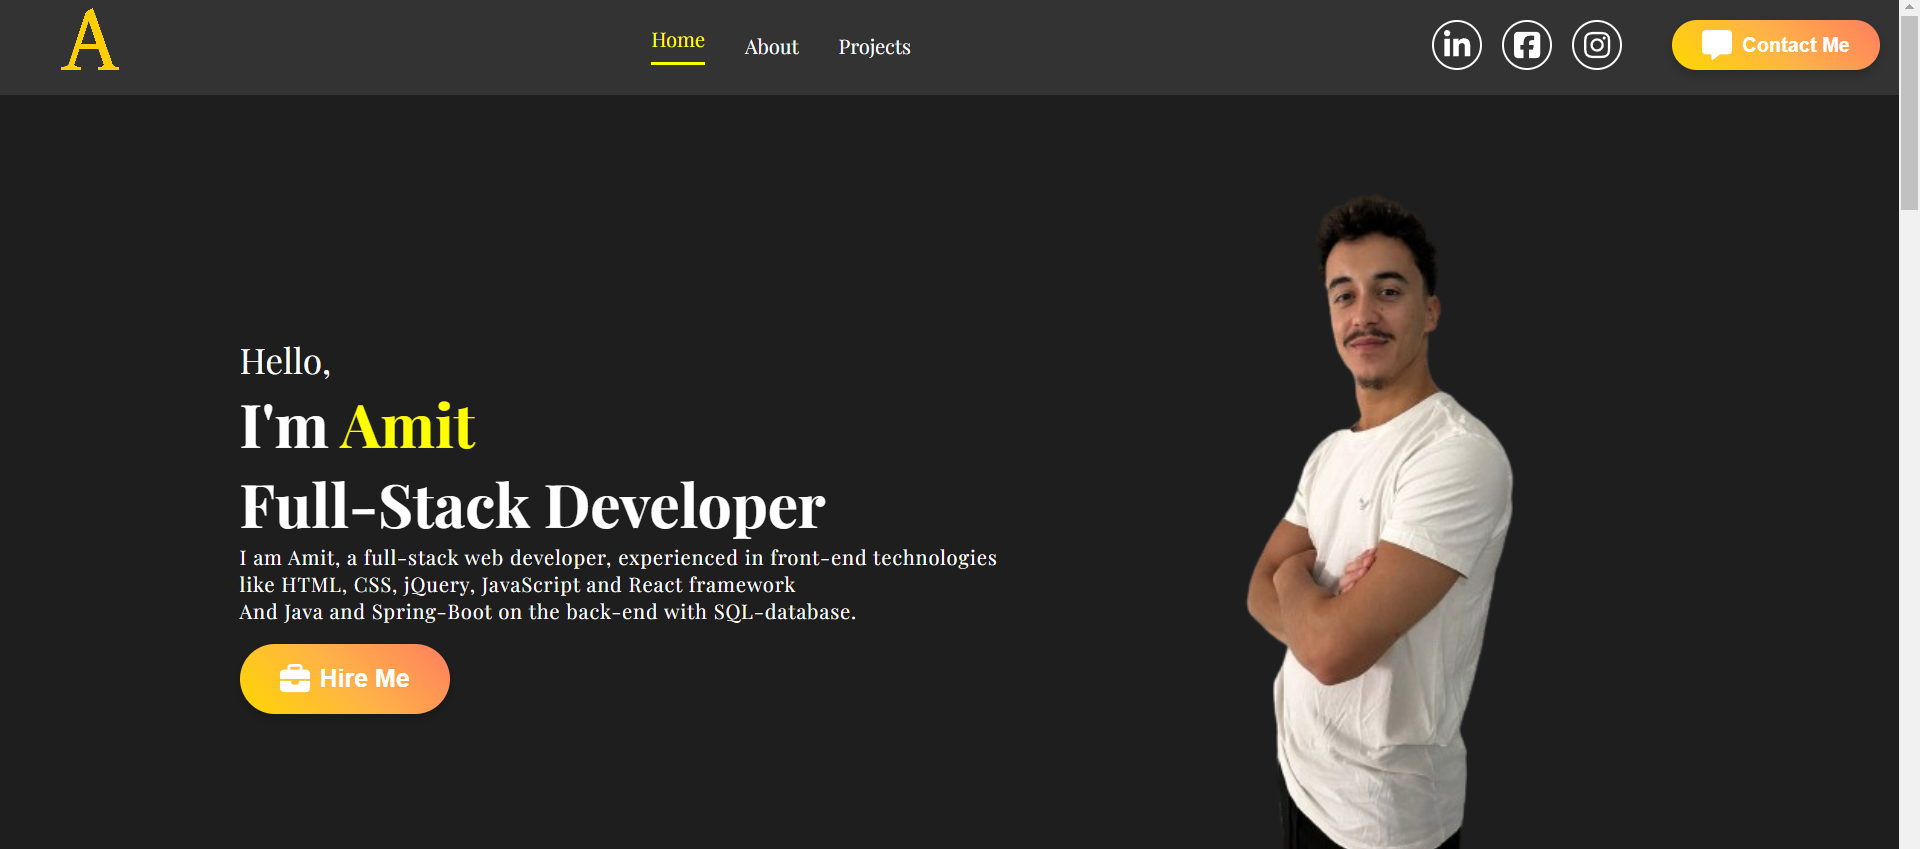
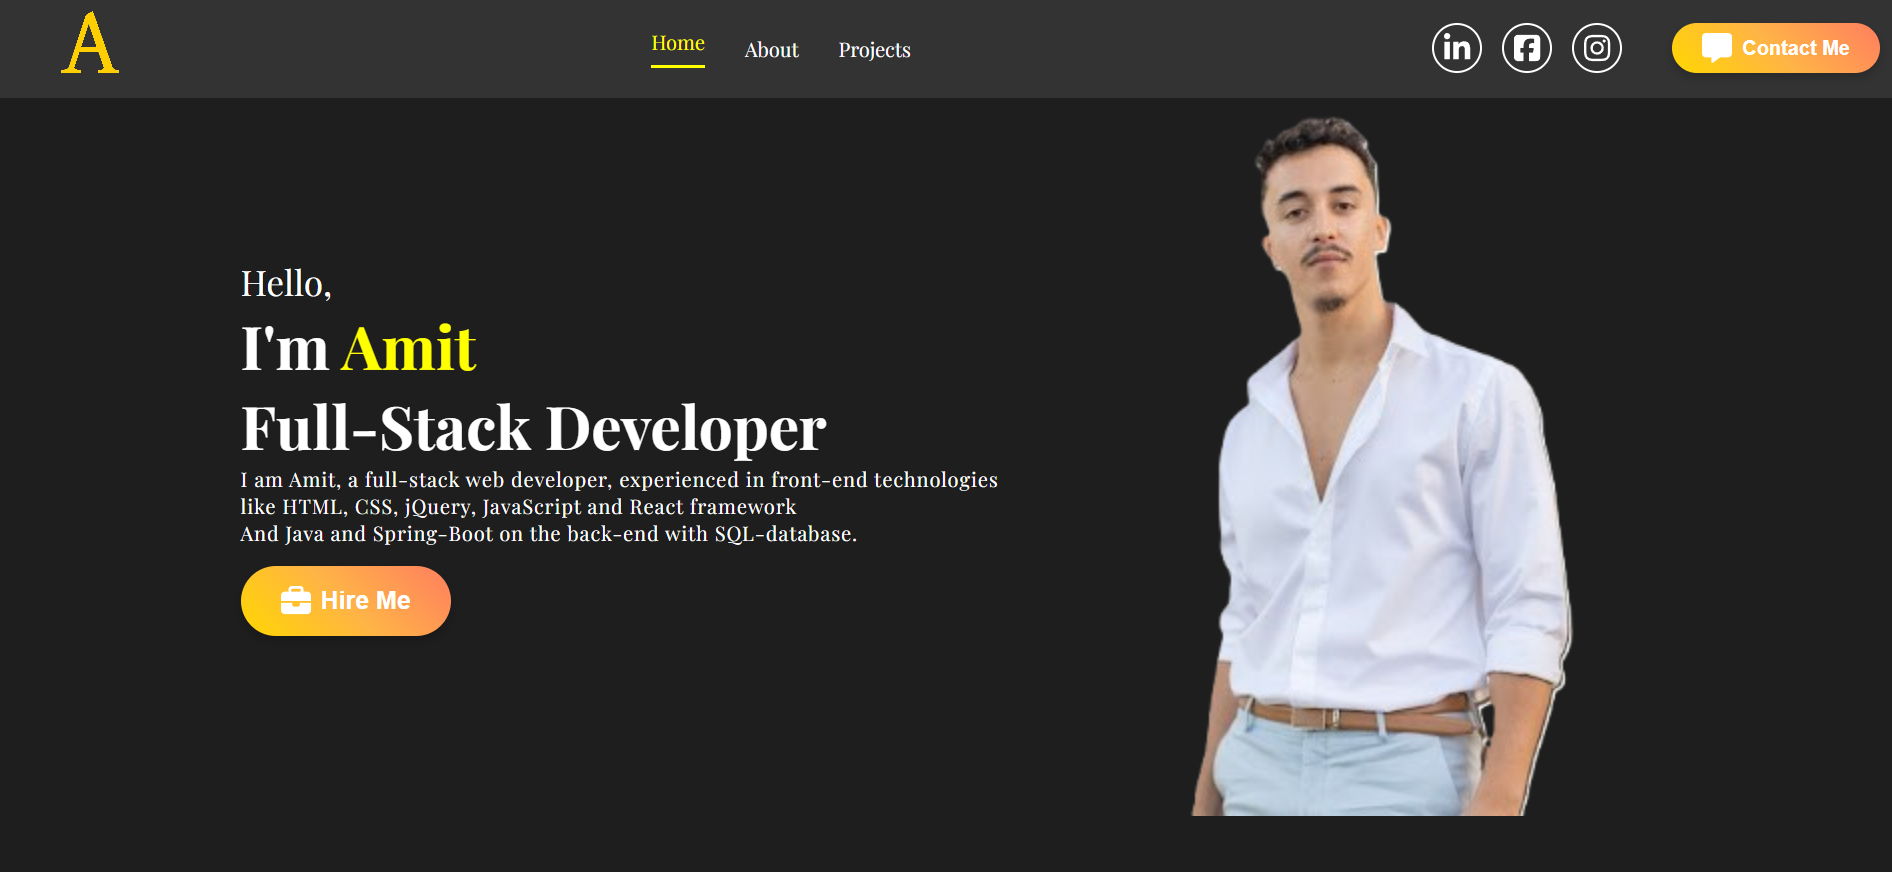
"updated"

diff --git a/src/components/Skills/Skills.jsx b/src/components/Skills/Skills.jsx
@@ -5,38 +5,45 @@ import website from '../../assets/website.jpeg';
 import problems from '../../assets/problems.png';
 import teamwork from '../../assets/teamwork.webp';
 
-const Skills = () =>{
-    return(
+const Skills = () => {
+    return (
         <section id="skills">
             <span className="skillsTitle">My Skills</span>
-            <span className="skillsDesc">I am a skilled and passionate full stack developer with experience in creating end to end websites. I have a strong understangind in HTML, CSS, Java Script, jQuery and React framework in frontend and Java, Spring Boot and SQL in backend.</span>
+            <span className="skillsDesc">
+                I am a passionate Full-Stack Developer with a deep technical background in building scalable, 
+                high-performance applications. My expertise spans across frontend modern frameworks, 
+                backend system architecture, and efficient infrastructure management.
+            </span>
             <div className="skillsBars">
                 <div className="skillsBar">
                     <img src={website} alt="frontend" className="skillsBarImg" />
                     <div className="skillsBarText">
-                        <h2>Front-end Developer</h2>
-                        <p>I have high level of skills in HTML, CSS, jQuery, Java Script and React framework.</p>
+                        <h2>Front-end Development</h2>
+                        <p>High-level expertise in HTML, CSS, JavaScript, and React, creating responsive and dynamic user interfaces.</p>
                     </div>
                 </div>
+                
                 <div className="skillsBar">
-                    <img src={problems} alt="problem solving" className="skillsBarImg" />
-                    <div className="skillsBarText">
-                        <h2>Problems solvin</h2>
-                        <p>Advenced problem solving skills in minimum time.</p>
-                    </div>
-                </div>
-                 <div className="skillsBar">
                     <img src={java} alt="backend" className="skillsBarImg" />
                     <div className="skillsBarText">
-                        <h2>Back-end Developer</h2>
-                        <p>I have high level of skills in Java, Spring Boot and SQL-MySql</p>
+                        <h2>Back-end & Systems</h2>
+                        <p>Proficient in Java, Spring Boot, Python, and C++. Experienced in Multithreading, Communication Models, and robust system logic.</p>
                     </div>
                 </div>
+
                 <div className="skillsBar">
-                    <img src={teamwork} alt="teamwork" className="skillsBarImg" />
+                    <img src={problems} alt="data and infrastructure" className="skillsBarImg" />
                     <div className="skillsBarText">
-                        <h2>Collaboration & Teamwork</h2>
-                        <p>Teamwork player with excellent interpersonal skills</p>
+                        <h2>Data & Infrastructure</h2>
+                        <p>Expertise in SQL (MySQL & pgAdmin), database management, and streamlining development environments with Docker.</p>
+                    </div>
+                </div>
+
+                <div className="skillsBar">
+                    <img src={teamwork} alt="soft skills" className="skillsBarImg" />
+                    <div className="skillsBarText">
+                        <h2>Problem Solving & Teamwork</h2>
+                        <p>Advanced analytical skills with a focus on efficient solutions. A collaborative team player with strong communication skills.</p>
                     </div>
                 </div>
             </div>

diff --git a/src/components/Contact/Contact.jsx b/src/components/Contact/Contact.jsx
@@ -1,40 +1,60 @@
-import React, {useRef} from "react";
+import React, { useRef } from "react";
 import './Contact.css';
 import emailjs from '@emailjs/browser';
+import Swal from 'sweetalert2'; 
 
-
-const Contact = () =>{
+const Contact = () => {
     const form = useRef();
+
     const sendEmail = (e) => {
         e.preventDefault();
-    
-        emailjs
-          .sendForm('service_pjgk3n3', 'template_77s6bw5', form.current, {
-            publicKey: 'w3OtjNlx0B_8PdHZZ',
-          })
-          .then(
-            () => {
-              console.log('SUCCESS!');
-              e.target.reset();
-              alert('Email sent!');
-            },
-            (error) => {
-              console.log('FAILED...', error.text);
-            },
-          );
-      };
 
-    return(
+        emailjs
+            .sendForm('service_pjgk3n3', 'template_77s6bw5', form.current, {
+                publicKey: 'glx5GXG-GM7hQYY0_',   
+            })
+            .then(
+                () => {
+                    console.log('SUCCESS!');
+                    e.target.reset();
+                    
+                  
+                    Swal.fire({
+                        title: 'Success!',
+                        text: 'Your message has been sent successfully.',
+                        icon: 'success',
+                        confirmButtonColor: '#FFD700', 
+                        background: '#1a1a1a', 
+                        color: '#fff'
+                    });
+                },
+                (error) => {
+                    console.log('FAILED...', error.text);
+                    
+                    
+                    Swal.fire({
+                        title: 'Error!',
+                        text: 'Something went wrong. Please try again later.',
+                        icon: 'error',
+                        confirmButtonColor: '#FF7E5F',
+                        background: '#1a1a1a',
+                        color: '#fff'
+                    });
+                }
+            );
+    };
+
+    return (
         <section id="contactPage">
             <h1 className="contactTitle">Get In Touch</h1>
             <form ref={form} className="contactForm" onSubmit={sendEmail}>
-                <input type="text" className="name" placeholder="Your Name" name="your_name" />
-                <input type="email" className="email" placeholder="Your Email" name="your_email" />
-                <textarea className="msg" name="message" rows="5" placeholder="Message"></textarea>
+                <input type="text" className="name" placeholder="Your Name" name="your_name" required />
+                <input type="email" className="email" placeholder="Your Email" name="your_email" required />
+                <textarea className="msg" name="message" rows="5" placeholder="Message" required></textarea>
                 <button type="submit" value="send" className="submitBtn">Submit</button>
             </form>
         </section>
     );
 }
 
-export default Contact
+export default Contact;

diff --git a/src/components/Intro/Intro.jsx b/src/components/Intro/Intro.jsx
@@ -1,6 +1,6 @@
 import React from "react";
 import './Intro.css';
-import amit from '../../assets/Amit.png';
+import amit from '../../assets/amit.png';
 import { Link } from 'react-scroll';
 import { FontAwesomeIcon } from '@fortawesome/react-fontawesome';
 import { faBriefcase } from '@fortawesome/free-solid-svg-icons';
@@ -10,13 +10,26 @@ const Intro = () => {
         <section id="intro">
             <div className="introContent">
                 <span className="hello">Hello,</span>
-                <span className="introText">I'm <span className="introName">Amit</span><br />Full-Stack Developer</span>
+                <span className="introText">
+                    I'm <span className="introName">Amit</span><br />
+                    Full-Stack Developer & Software Engineering Student
+                </span>
                 <div className="introP">
-                <p className="introPara">I am Amit, a full-stack web developer, experienced in front-end technologies</p>
-                <p className="introPara"> like HTML, CSS, jQuery, JavaScript and React framework</p>
-                <p className="introPara"> And Java and Spring-Boot on the back-end with SQL-database.</p>
+                    <p className="introPara">
+                        I specialize in building end-to-end applications using <b>React, JavaScript, HTML, and CSS</b> on the frontend.
+                    </p>
+                    <p className="introPara">
+                        Experienced in backend development with <b>Java, Spring-Boot, Python, and C++</b>, including <b>Multithreading</b> and <b>Communication Models</b>.
+                    </p>
+                    <p className="introPara">
+                        Skilled in managing databases with <b>SQL & pgAdmin</b>, and streamlining workflows using <b>Docker</b>.
+                    </p>
                 </div>
-                <Link to="contact" spy={true} smooth={true} offset={-100} duration={500}><button className="hire-me-btn"><FontAwesomeIcon className="hire-me-icon" icon={faBriefcase} /> Hire Me</button></Link>
+                <Link to="contact" spy={true} smooth={true} offset={-100} duration={500}>
+                    <button className="hire-me-btn">
+                        <FontAwesomeIcon className="hire-me-icon" icon={faBriefcase} /> Hire Me
+                    </button>
+                </Link>
             </div>
             <img className="amit" src={amit} alt="Amit" />
         </section>

diff --git a/src/components/Projects/Projects.jsx b/src/components/Projects/Projects.jsx
@@ -4,6 +4,10 @@ import Ecommerce from '../../assets/E-commerce.png';
 import TicTacToe from '../../assets/Tic-Tac-Toe.png';
 import Memory from '../../assets/Memory-game.png';
 import Portfolio from '../../assets/Portfolio.png';
+import falafel from '../../assets/Falafel_King.jpg';
+import mem from '../../assets/mem.webp';
+import reactor from '../../assets/reactor.webp';
+import threads from '../../assets/threads.webp';
 import { FontAwesomeIcon } from '@fortawesome/react-fontawesome';
 import { faGithub } from '@fortawesome/free-brands-svg-icons';
 
@@ -31,6 +35,30 @@ const projects = [
         image: Portfolio,
         githubLink: 'https://github.com/amitsaviro/Portfolio',
         alt: 'Portfolio',
+    },
+    {
+        id: 5,
+        image: falafel,
+        githubLink: 'https://github.com/amitsaviro/king-of-falafel',
+        alt: 'king-of-falafel',
+    },
+    {
+        id: 6,
+        image: mem,
+        githubLink: 'https://github.com/amitsaviro/SPL25-Assignment1-memoryManagment',
+        alt: 'memoryManagment',
+    },
+    {
+        id: 7,
+        image: reactor,
+        githubLink: 'https://github.com/amitsaviro/HW3-SPL-Communication',
+        alt: 'Communication',
+    },
+    {
+        id: 8,
+        image: threads,
+        githubLink: 'https://github.com/amitsaviro/HW2---SPL-Threads ',
+        alt: 'threads',
     },
 ];
 

diff --git a/src/components/Intro/Intro.css b/src/components/Intro/Intro.css
@@ -5,15 +5,17 @@
     margin: 0 auto;
     overflow: hidden;
     position: relative;
+    display: flex; 
+    align-items: center;
 }
 
 .amit {
     position: absolute;
-    top: -4rem;
+    bottom: 0; 
     right: 0;
-    z-index: -1;
-    object-fit: cover;
-    height: 100vh;
+    height: 90%; 
+    object-fit: contain;
+    z-index: 0;
 }
 
 .introContent {
@@ -26,6 +28,8 @@
     flex-direction: column;
     justify-content: center;
     align-items: flex-start;
+    max-width: 55%; 
+    z-index: 2;
 }
 
 .hello {
@@ -35,6 +39,8 @@
 
 .introText {
     text-align: left;
+    max-width: 480px; 
+    line-height: 1.2;
 }
 
 .introName {
@@ -46,6 +52,8 @@
     font-weight: 300;
     letter-spacing: 0.75px;
     text-align: left;
+    max-width: 420px; 
+    line-height: 1.5;
 }
 
 .hire-me-btn {
@@ -55,7 +63,7 @@
     border: none;
     border-radius: 2rem;
     cursor: pointer;
-    font-size: 1.25rem; /* Increased font size */
+    font-size: 1.25rem;
     font-weight: 600;
     color: white;
     display: flex;
@@ -78,13 +86,14 @@
     width: 1.5rem;
 }
 
-
 @media screen and (max-width: 840px) {
+    .introContent {
+        max-width: 100%; 
+        font-size: 10vw;
+    }
     .amit {
         right: -10vh;
-    }
-    .introContent {
-        font-size: 10vw;
+        opacity: 0.5; 
     }
     .hello {
         font-size: 4.5vw;

diff --git a/src/components/Projects/Projects.css b/src/components/Projects/Projects.css
@@ -1,3 +1,4 @@
+
 .projectsTitle {
     font-size: 4rem;
     font-weight: 600;
@@ -8,9 +9,9 @@
 
 .projectsGrid {
     display: grid;
-    grid-template-columns: repeat(2, 1fr);
+    grid-template-columns: repeat(2, 1fr); 
     gap: 20px;
-    margin:0 10%;
+    margin: 0 10%;
 }
 
 .projectItem {
@@ -19,12 +20,14 @@
     border-radius: 8px;
     box-shadow: 0 4px 8px rgba(0, 0, 0, 0.1);
     transition: transform 0.3s ease, box-shadow 0.3s ease;
+    height: 250px; 
 }
 
 .projectImage {
     display: block;
     width: 100%;
-    height: auto;
+    height: 100%; 
+    object-fit: cover; 
     transition: opacity 0.3s ease;
 }
 
@@ -54,9 +57,14 @@
     font-size: 4rem; 
 }
 
+/* for small screen */
 @media screen and (max-width: 768px) {
     .projectsGrid {
-        grid-template-columns: repeat(1, 1fr);
+        grid-template-columns: 1fr; 
+        margin: 0 5%;
     }
 
+    .projectItem {
+        height: 200px; 
+    }
 }
